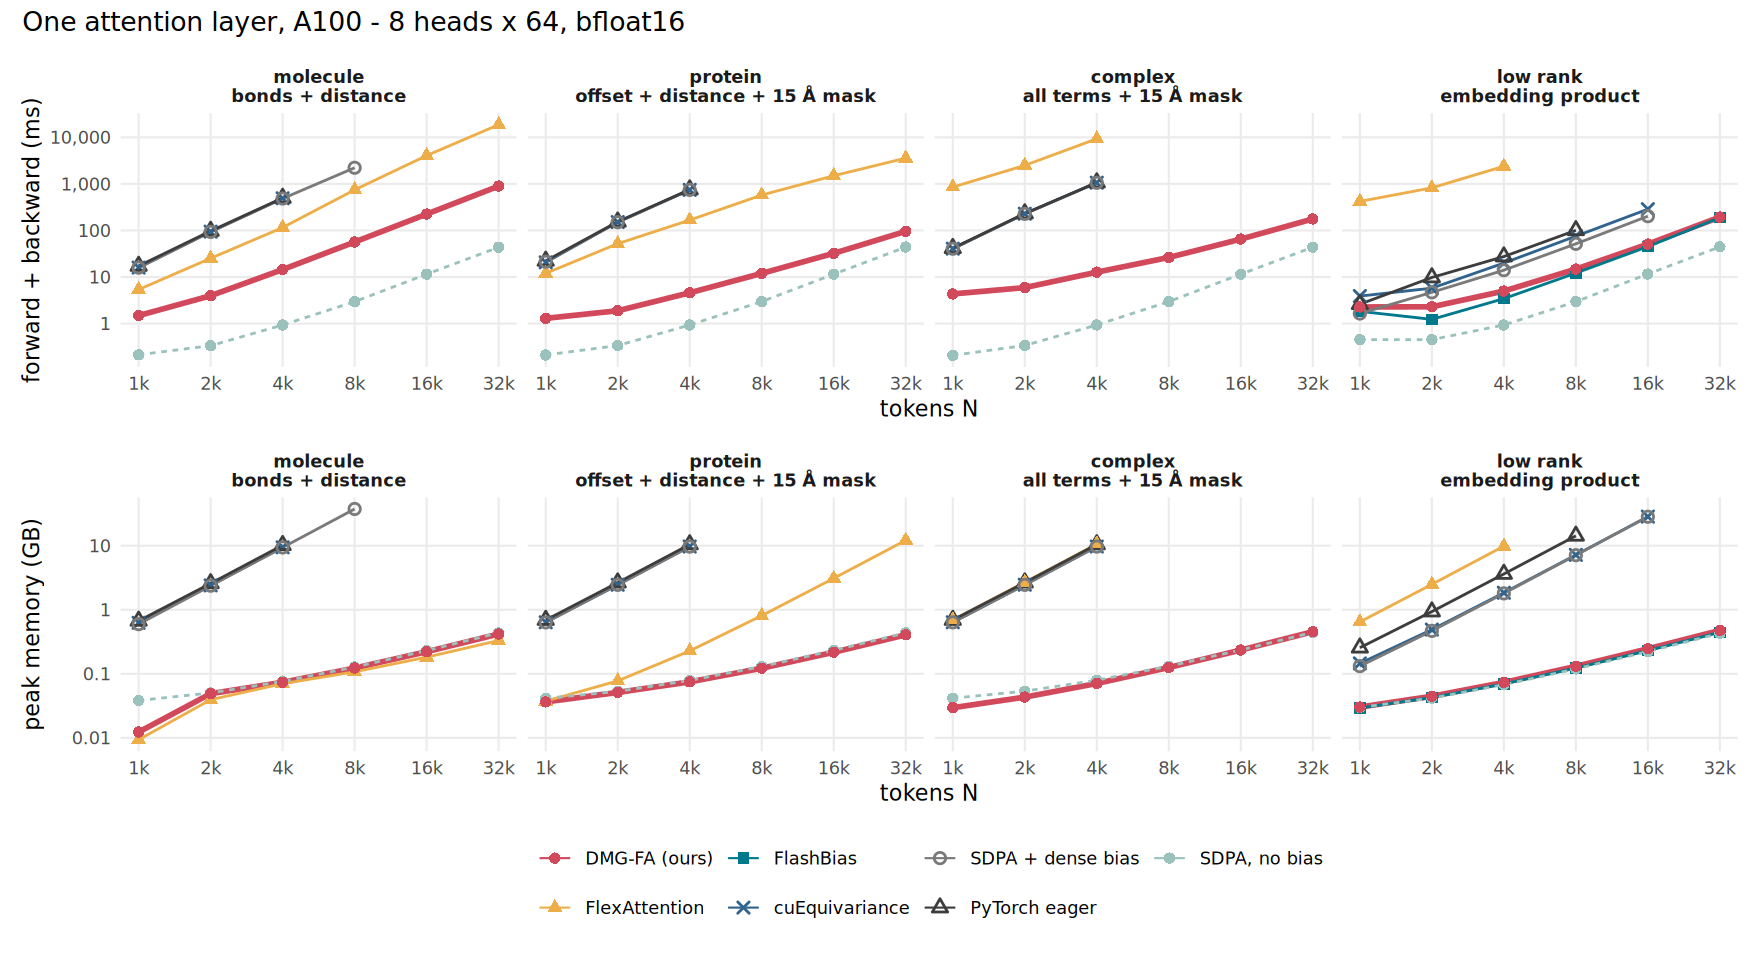
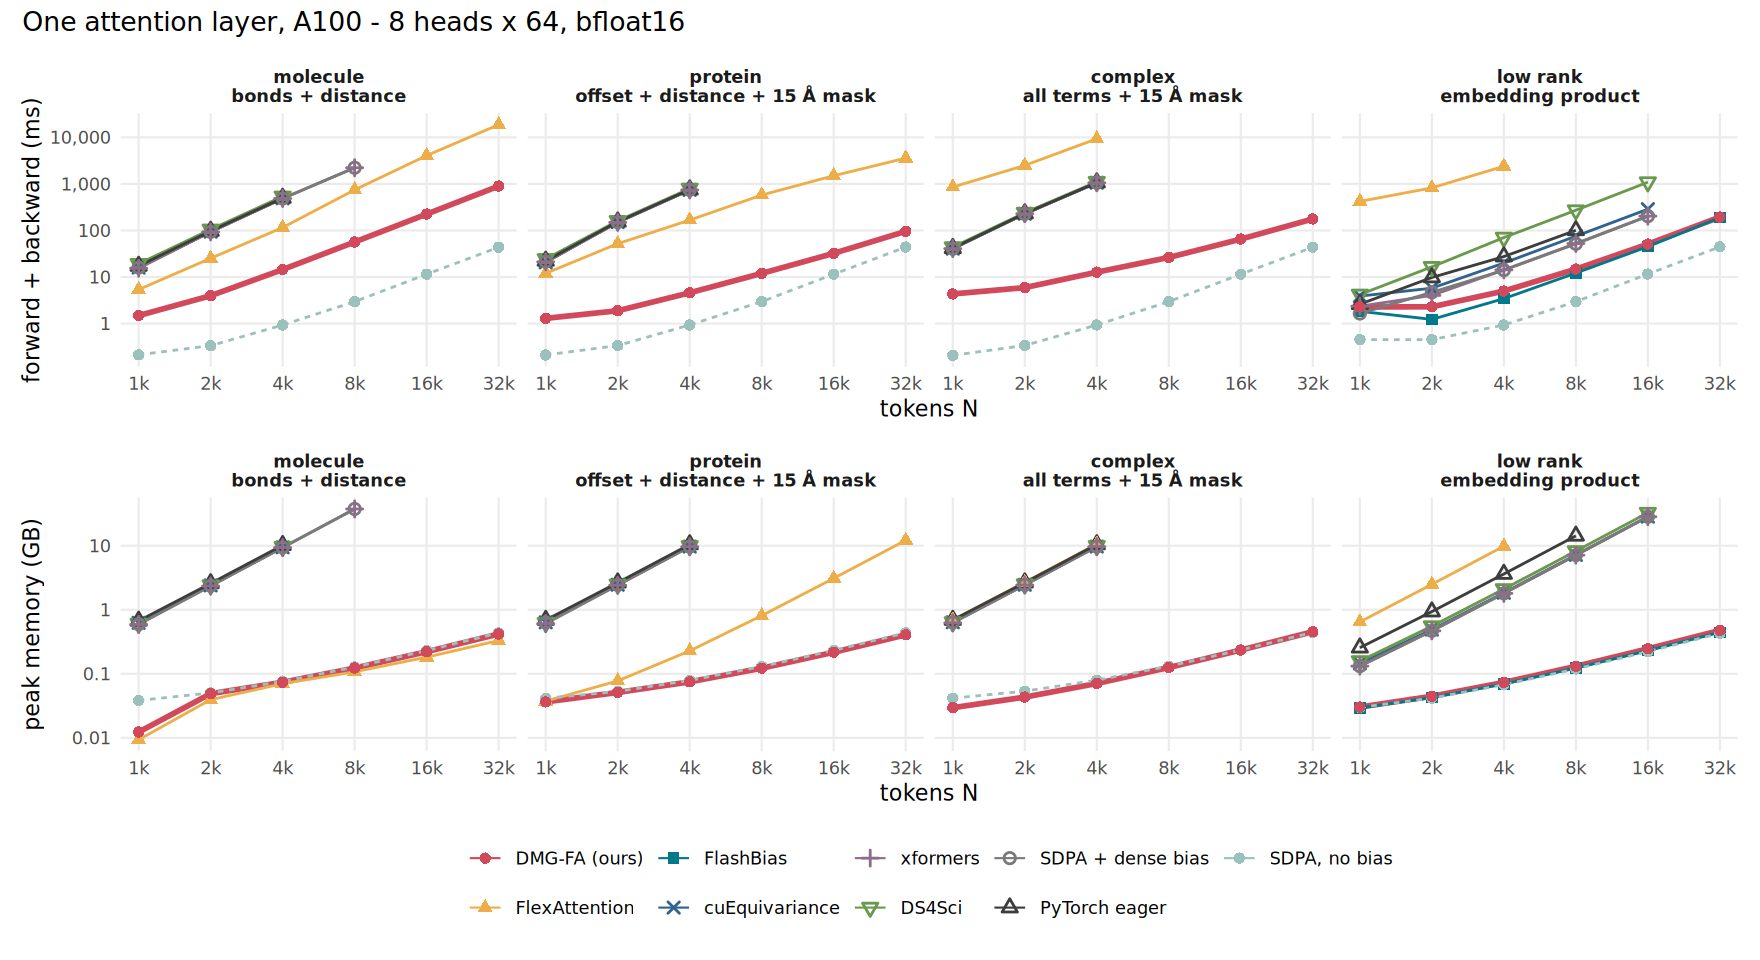
docs(benchmarks): add xformers, DS4Sci and TurboPairFormer results

diff --git a/docs/benchmarks.md b/docs/benchmarks.md
@@ -12,6 +12,9 @@ Every method computes the same function from the same terms, except the last row
 | `flex` | PyTorch FlexAttention (`torch.compile`d), the terms translated to `score_mod` and `mask_mod` | no |
 | `flashbias` | FlashBias (Wu et al., NeurIPS 2025), low-rank factors appended to q and k; exact only for the `lowrank` scenario | no |
 | `cuequivariance` | NVIDIA cuEquivariance 0.13.0 `attention_pair_bias`, bias precomputed densely; includes the op's own projections and gate | yes |
+| `xformers` | xformers 0.0.35 `memory_efficient_attention` (cutlass) with the dense bias as a tensor | yes |
+| `ds4sci` | DeepSpeed `DS4Sci_EvoformerAttention` (CUTLASS) with the dense bias; float16 and bfloat16 only | yes |
+| `turbopairformer` | TurboPairFormer triangle-attention kernel with the dense bias; Hopper GPUs and bfloat16 only | yes |
 | `sdpa+bias` | dense bias built in PyTorch, passed to `F.scaled_dot_product_attention` as a float mask | yes |
 | `eager` | plain PyTorch, every `[B, H, N, N]` tensor explicit | yes |
 | `sdpa (no bias)` | SDPA without any bias (FlashAttention-2 backend) | no |
@@ -41,6 +44,8 @@ Forward plus backward time and peak memory per attention layer. OOM: out of memo
 | complex | flex | 9312.2 ms, 10.64 GB | OOM | OOM |
 | complex | flashbias | n/a | n/a | n/a |
 | complex | cuequivariance | 1061.2 ms, 9.72 GB | OOM | OOM |
+| complex | xformers | 1057.0 ms, 9.68 GB | OOM | OOM |
+| complex | ds4sci | 1109.9 ms, 9.94 GB | OOM | OOM |
 | complex | sdpa+bias | 1057.1 ms, 9.69 GB | OOM | OOM |
 | complex | eager | 1069.8 ms, 10.48 GB | OOM | OOM |
 | complex | sdpa (no bias) | 0.9 ms, 0.08 GB | 11.5 ms, 0.24 GB | 43.8 ms, 0.44 GB |
@@ -48,6 +53,8 @@ Forward plus backward time and peak memory per attention layer. OOM: out of memo
 | lowrank | flex | 2396.1 ms, 9.86 GB | OOM | OOM |
 | lowrank | flashbias | 3.4 ms, 0.07 GB | 45.0 ms, 0.23 GB | 189.2 ms, 0.44 GB |
 | lowrank | cuequivariance | 20.0 ms, 1.84 GB | 286.7 ms, 28.50 GB | OOM |
+| lowrank | xformers | 14.2 ms, 1.80 GB | 203.1 ms, 28.35 GB | OOM |
+| lowrank | ds4sci | 70.4 ms, 2.11 GB | 1089.9 ms, 32.76 GB | OOM |
 | lowrank | sdpa+bias | 14.0 ms, 1.80 GB | 202.6 ms, 28.35 GB | OOM |
 | lowrank | eager | 27.5 ms, 3.62 GB | OOM | OOM |
 | lowrank | sdpa (no bias) | 0.9 ms, 0.07 GB | 11.6 ms, 0.22 GB | 44.5 ms, 0.43 GB |
@@ -55,6 +62,8 @@ Forward plus backward time and peak memory per attention layer. OOM: out of memo
 | molecule | flex | 115.6 ms, 0.07 GB | 4061.9 ms, 0.18 GB | 18718.1 ms, 0.33 GB |
 | molecule | flashbias | n/a | n/a | n/a |
 | molecule | cuequivariance | 491.1 ms, 9.45 GB | OOM | OOM |
+| molecule | xformers | 486.2 ms, 9.38 GB | OOM | OOM |
+| molecule | ds4sci | 538.6 ms, 9.64 GB | OOM | OOM |
 | molecule | sdpa+bias | 485.1 ms, 9.40 GB | OOM | OOM |
 | molecule | eager | 498.9 ms, 10.19 GB | OOM | OOM |
 | molecule | sdpa (no bias) | 0.9 ms, 0.08 GB | 11.5 ms, 0.23 GB | 43.6 ms, 0.44 GB |
@@ -62,6 +71,8 @@ Forward plus backward time and peak memory per attention layer. OOM: out of memo
 | protein | flex | 167.2 ms, 0.23 GB | 1500.5 ms, 3.10 GB | 3578.8 ms, 12.18 GB |
 | protein | flashbias | n/a | n/a | n/a |
 | protein | cuequivariance | 745.4 ms, 9.72 GB | OOM | OOM |
+| protein | xformers | 741.8 ms, 9.66 GB | OOM | OOM |
+| protein | ds4sci | 794.0 ms, 9.92 GB | OOM | OOM |
 | protein | sdpa+bias | 743.2 ms, 9.69 GB | OOM | OOM |
 | protein | eager | 755.6 ms, 10.48 GB | OOM | OOM |
 | protein | sdpa (no bias) | 0.9 ms, 0.08 GB | 11.5 ms, 0.23 GB | 44.0 ms, 0.44 GB |
@@ -72,6 +83,7 @@ Notes on the baselines:
 
 - FlexAttention computes the same function and agrees with the reference (see Accuracy). It cannot differentiate through two reads of one captured tensor, so the baseline passes interpolation tables as separate value and slope tensors and edge values as one tensor per slot. A `mask_mod` with captured tensors failed in the compiled backward on this PyTorch version (2.14), so the mask is applied in `score_mod` and the block mask only skips empty blocks.
 - FlashBias needs all eight arguments of `flash_bias_func` passed explicitly; with the defaults its backward fails on an index error. On the A100 its output agrees with the reference (largest relative error 3.9e-3 in bfloat16, as for molflash). On the H100 and H200 it deviated by 6 to 11% in our runs; its authors describe the Triton kernel as tested on A100 only, so the Hopper FlashBias timings below are of a kernel that does not compute the intended result.
+- xformers, DS4Sci and TurboPairFormer pin older PyTorch versions (2.10) and run in separate environments; they receive the same dense bias as SDPA. DS4Sci turns `-inf` in the bias into NaN, so masked pairs get -30,000 instead, which removes them equally.
 - cuEquivariance `attention_pair_bias` projects its own queries, keys, values and output gate from a single representation, so its time includes those projections and its output is a different function. Its bias input is the dense `[B, H, N, N]` tensor, so its memory grows as N².
 
 ### H100
@@ -84,6 +96,9 @@ NVIDIA H100 PCIe (80 GB). Same layout as the A100 table.
 | complex | flex | 8301.9 ms, 10.68 GB | > 30 s | > 30 s |
 | complex | flashbias | n/a | n/a | n/a |
 | complex | cuequivariance | 881.8 ms, 9.77 GB | OOM | OOM |
+| complex | xformers | 897.2 ms, 9.73 GB | OOM | OOM |
+| complex | ds4sci | 934.0 ms, 9.74 GB | OOM | OOM |
+| complex | turbopairformer | 899.9 ms, 9.73 GB | OOM | OOM |
 | complex | sdpa+bias | 877.6 ms, 9.73 GB | OOM | OOM |
 | complex | eager | 882.4 ms, 10.52 GB | OOM | OOM |
 | complex | sdpa (no bias) | 0.5 ms, 0.11 GB | 5.6 ms, 0.24 GB | 24.9 ms, 0.42 GB |
@@ -91,6 +106,9 @@ NVIDIA H100 PCIe (80 GB). Same layout as the A100 table.
 | lowrank | flex | 1968.4 ms, 9.90 GB | OOM | OOM |
 | lowrank | flashbias | 1.7 ms, 0.12 GB | 21.6 ms, 0.28 GB | 88.5 ms, 0.50 GB |
 | lowrank | cuequivariance | 12.0 ms, 1.89 GB | 188.8 ms, 28.55 GB | OOM |
+| lowrank | xformers | 8.3 ms, 1.85 GB | 130.4 ms, 28.40 GB | OOM |
+| lowrank | ds4sci | 45.1 ms, 1.86 GB | 742.2 ms, 28.45 GB | OOM |
+| lowrank | turbopairformer | 11.4 ms, 1.85 GB | 183.5 ms, 28.42 GB | OOM |
 | lowrank | sdpa+bias | 8.4 ms, 1.86 GB | 130.0 ms, 28.41 GB | OOM |
 | lowrank | eager | 13.9 ms, 3.68 GB | 227.9 ms, 56.87 GB | OOM |
 | lowrank | sdpa (no bias) | 0.5 ms, 0.11 GB | 5.6 ms, 0.24 GB | 24.7 ms, 0.42 GB |
@@ -98,6 +116,9 @@ NVIDIA H100 PCIe (80 GB). Same layout as the A100 table.
 | molecule | flex | 96.9 ms, 0.12 GB | 3324.9 ms, 0.23 GB | 15123.2 ms, 0.38 GB |
 | molecule | flashbias | n/a | n/a | n/a |
 | molecule | cuequivariance | 405.3 ms, 9.49 GB | OOM | OOM |
+| molecule | xformers | 413.1 ms, 9.38 GB | OOM | OOM |
+| molecule | ds4sci | 450.5 ms, 9.39 GB | OOM | OOM |
+| molecule | turbopairformer | 416.2 ms, 9.38 GB | OOM | OOM |
 | molecule | sdpa+bias | 401.7 ms, 9.46 GB | OOM | OOM |
 | molecule | eager | 407.0 ms, 10.25 GB | OOM | OOM |
 | molecule | sdpa (no bias) | 0.5 ms, 0.12 GB | 5.3 ms, 0.25 GB | 24.5 ms, 0.43 GB |
@@ -105,6 +126,9 @@ NVIDIA H100 PCIe (80 GB). Same layout as the A100 table.
 | protein | flex | 75.7 ms, 0.27 GB | 905.9 ms, 3.15 GB | 2477.0 ms, 12.23 GB |
 | protein | flashbias | n/a | n/a | n/a |
 | protein | cuequivariance | 615.3 ms, 9.76 GB | OOM | OOM |
+| protein | xformers | 630.5 ms, 9.66 GB | OOM | OOM |
+| protein | ds4sci | 667.4 ms, 9.67 GB | OOM | OOM |
+| protein | turbopairformer | 633.3 ms, 9.66 GB | OOM | OOM |
 | protein | sdpa+bias | 611.2 ms, 9.73 GB | OOM | OOM |
 | protein | eager | 615.7 ms, 10.52 GB | OOM | OOM |
 | protein | sdpa (no bias) | 0.5 ms, 0.11 GB | 5.5 ms, 0.24 GB | 24.7 ms, 0.42 GB |
